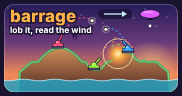
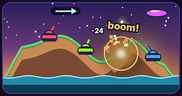
Redraw the crumble, barrage and snowball pictures without a title
They had taken to a poster layout, name and tagline beside a smaller frame
of the game, each copying the one before. The game now fills the frame and
the only words left are its own effect pops. AGENTS.md says a picture
carries no title or description, only effect text, and names the older
pictures to take the style from.

Claude-Session: https://claude.ai/code/session_01LVvDm1SrX7wBxQrxvRtdrW

diff --git a/AGENTS.md b/AGENTS.md
@@ -159,10 +159,16 @@ above, does playing alone work as above? Fix what you find.
 ## The thumbnail
 
 `thumbnails/<snake_name>.png`, 182×96, in the style of the ones already there
-(open two or three first): a dark background, a thin rounded frame, flat
-colours, a still frame of this game that makes somebody want to click it.
+(open `glint.png`, `slipstream.png` and `conga.png` first, not just the newest
+ones): a dark background, a thin rounded frame, flat colours, a still frame of
+this game that makes somebody want to click it.
 Drawn with a throwaway script, which is not committed; the PNG is not
 uploaded anywhere — the owner does that by hand.
+
+No title and no description on the picture: not the game's name, not a
+tagline, not a how-to line. The library already shows the name and `@about`
+beside it. The scene fills the frame. The only words allowed are the ones the
+game itself pops up as an effect: `boom!`, `hop!`, `snip!`, `+10`, `-24`.
 
 ## Rejected games
 
